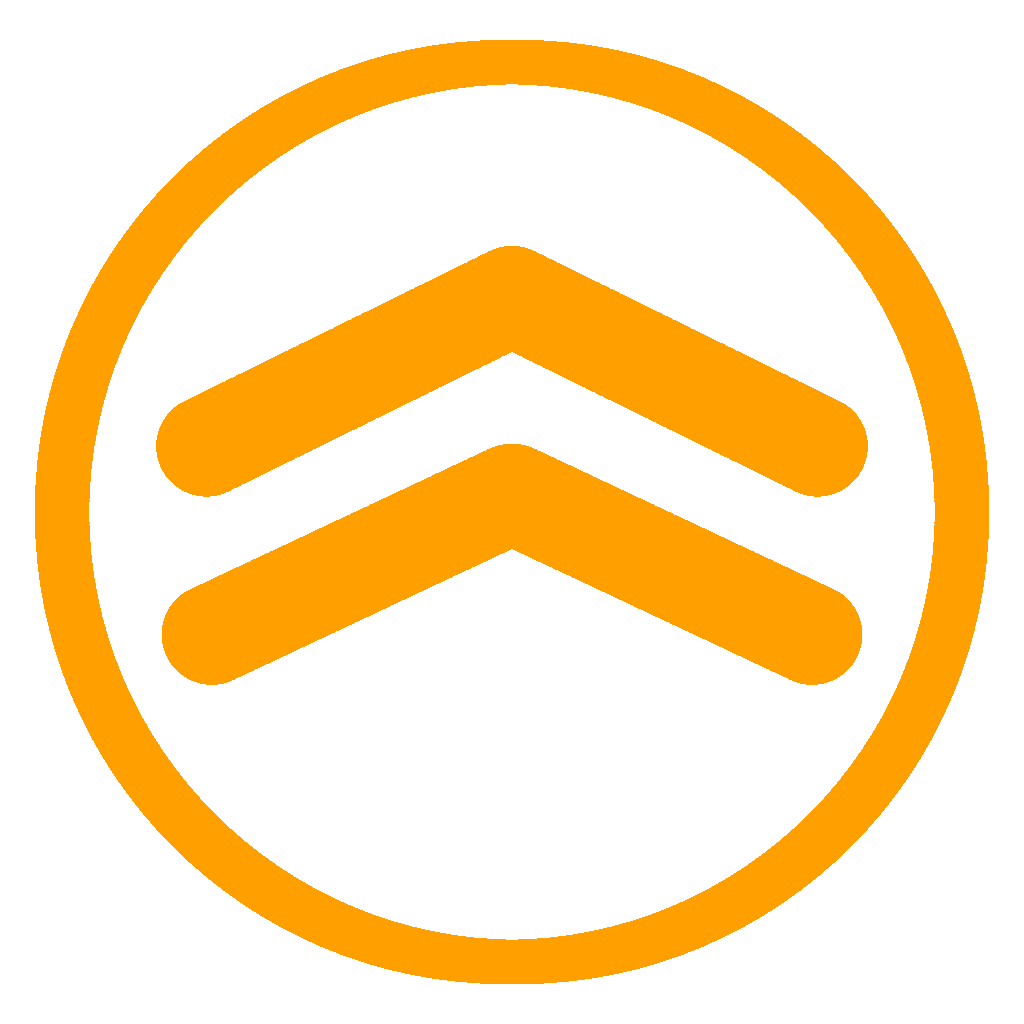
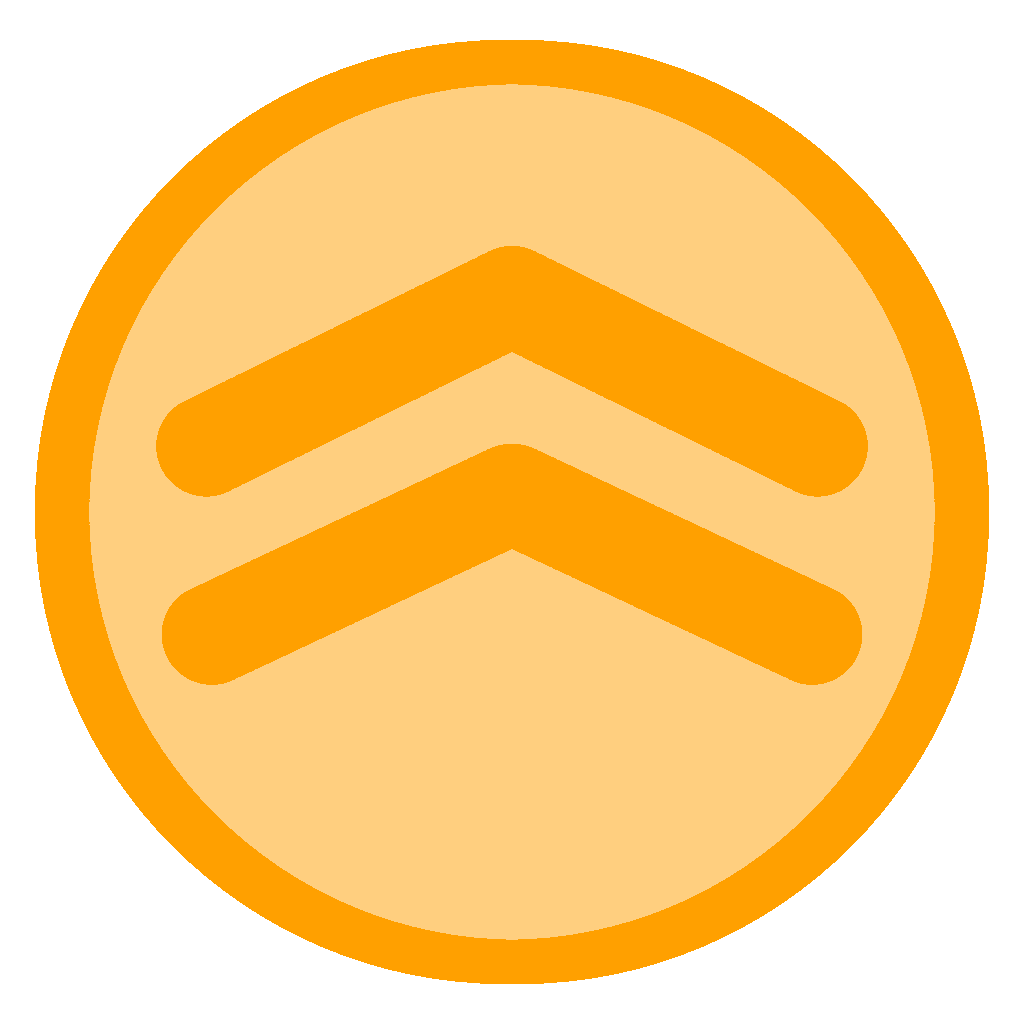
added boost models, transparent objects now work

diff --git a/src/main.cpp b/src/main.cpp
@@ -70,8 +70,21 @@ int main()
 	Model boostModel("boost/boost.obj");
 	float boostData[] = { // x, y, z, yaw, pitch
 		1542.0, 70.0, 3350.0, M_PI*0.5, 0.0,
+		1642.0, 70.0, 3350.0, M_PI*0.5, 0.0,
+		1602.0, 70.0, 3350.0, M_PI*0.5, 0.0,
 	};
-//	Object boost1(&boostModel, 1542.0, 70.0, 3350.0, 10.0, -M_PI*0.5, 0.0, 0.0);
+	unsigned int numBoosts = sizeof(boostData)/sizeof(float)/5;
+	Object boosts[numBoosts];
+	for (unsigned int i = 0; i < numBoosts; i++) {
+		unsigned int offset = i*5;
+		float x = boostData[offset];
+		float y = boostData[offset + 1];
+		float z = boostData[offset + 2];
+		float yaw = boostData[offset + 3];
+		float pitch = boostData[offset + 4];
+		boosts[i] = Object(&boostModel, x, y, z, 10.0, yaw, pitch, 0.0);
+	}
+	unsigned int boostSortIndices[numBoosts] = {0};
 
 	Model checkpointModel("checkpoint/checkpoint.obj");
 	float checkpointData[] = { // x, y, z, yaw, pitch
@@ -203,6 +216,28 @@ int main()
 
 		playerAirplane.update();
 
+		float boostDistances[numBoosts];
+		for (unsigned int i = 0; i < numBoosts; i++) {
+			unsigned int offset = i*5;
+			float dx = cameraX - boostData[offset + 0];
+			float dy = cameraY - boostData[offset + 1];
+			float dz = cameraZ - boostData[offset + 2];
+			boostDistances[i] = sqrt(dx*dx + dy*dy + dz*dz);
+		}
+		for (unsigned int i = 0; i < numBoosts; i++) {
+			float maxDistance = 0.0;
+			unsigned int maxIndex = 0;
+			for (unsigned int j = 0; j < numBoosts; j++) {
+				float distance = boostDistances[j];
+				if (distance > maxDistance) {
+					maxDistance = distance;
+					maxIndex = j;
+				}
+			}
+			boostSortIndices[i] = maxIndex;
+			boostDistances[maxIndex] = 0.0;
+		}
+
 		float newTime2 = glfwGetTime();
 		deltaT_CPU = (int)((newTime2 - newTime)*1000000);
 
@@ -214,7 +249,6 @@ int main()
 		glClear(GL_COLOR_BUFFER_BIT | GL_DEPTH_BUFFER_BIT);
 		terrain.render(1.0);
 		playerAirplane.render(textureShader, colorShader, frameCount);
-//		boost1.render(textureShader, colorShader, frameCount);
 		for (unsigned int i = 0; i < numCheckpoints; i++) {
 			checkpoints[i].render(textureShader, colorShader, frameCount, checkpointColors[i]);
 		}
@@ -233,12 +267,15 @@ int main()
 		glClear(GL_COLOR_BUFFER_BIT | GL_DEPTH_BUFFER_BIT);
 		terrain.render(2.0);
 		playerAirplane.render(textureShader, colorShader, frameCount);
-//		boost1.render(textureShader, colorShader, frameCount);
 		for (unsigned int i = 0; i < numCheckpoints; i++) {
 			checkpoints[i].render(textureShader, colorShader, frameCount, checkpointColors[i]);
 		}
 		startFinishLine.render(textureShader, colorShader, frameCount);
 		skybox.render();
+		// Must render transparant objects last
+		for (unsigned int i = 0; i < numBoosts; i++) {
+			boosts[boostSortIndices[i]].render(textureShader, colorShader, frameCount);
+		}
 
 		setViewMatrix(viewMatrix, cameraPitch, cameraYaw, cameraX, cameraY, cameraZ);
 		updateUniforms();
@@ -246,6 +283,10 @@ int main()
 		glBindFramebuffer(GL_FRAMEBUFFER, 0);
 		glViewport(0, 0, screenWidth, screenHeight);
 		water.render(1.0);
+		// Must render transparant objects last
+		for (unsigned int i = 0; i < numBoosts; i++) {
+			boosts[boostSortIndices[i]].render(textureShader, colorShader, frameCount);
+		}
 
 		if (VSYNC_ON) glFinish(); // So we get consistent FPS
 		glfwSwapBuffers(window.windowPtr);

diff --git a/src/Window.cpp b/src/Window.cpp
@@ -58,6 +58,8 @@ Window::Window()
 
 	// OpenGL settings
 	glShadeModel(GL_SMOOTH);
+	glEnable(GL_BLEND);
+	glBlendFunc(GL_SRC_ALPHA, GL_ONE_MINUS_SRC_ALPHA);
 	glEnable(GL_CLIP_DISTANCE0);
 	glEnable(GL_DEPTH_TEST);
 	glEnable(GL_CULL_FACE);

diff --git a/src/include.h b/src/include.h
@@ -4,6 +4,8 @@
 #include <stdlib.h>
 #include <vector>
 #include <string>
+#include <cfloat>
+#include <cstdint>
 #include <GL/glew.h>
 #include <GLFW/glfw3.h>
 #include <math.h>
